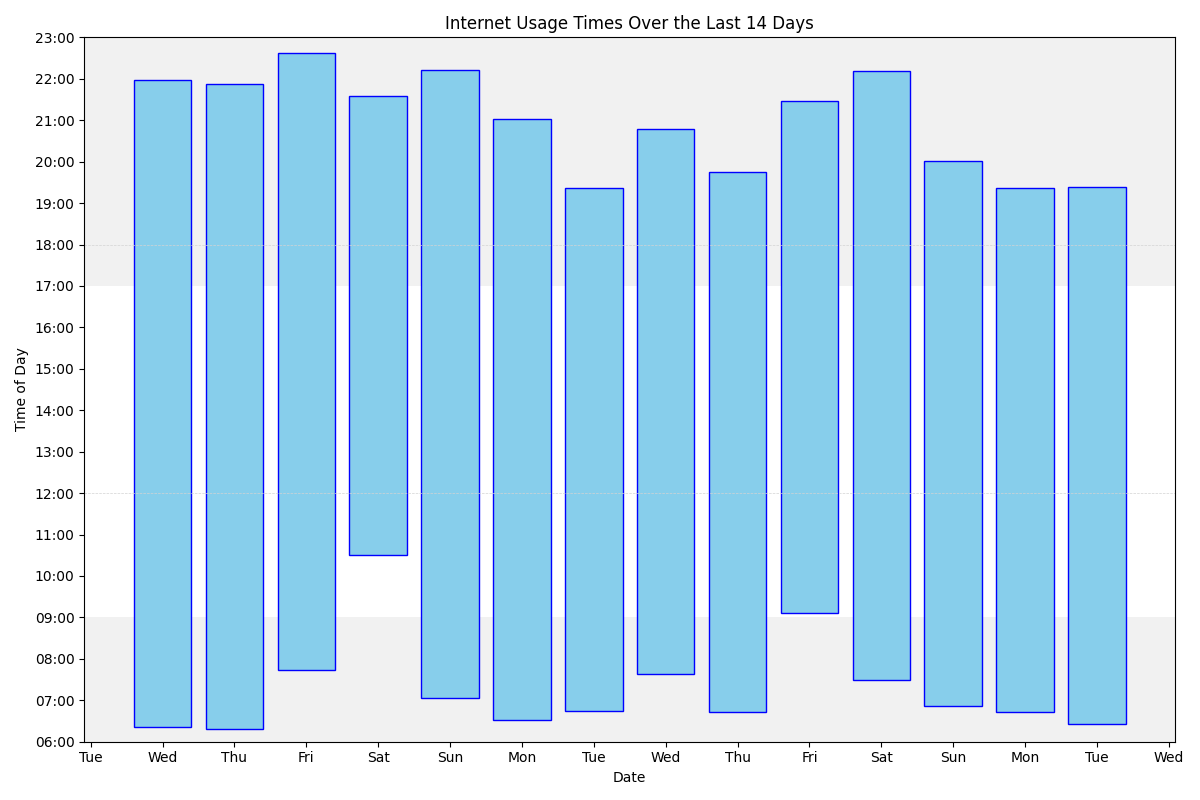
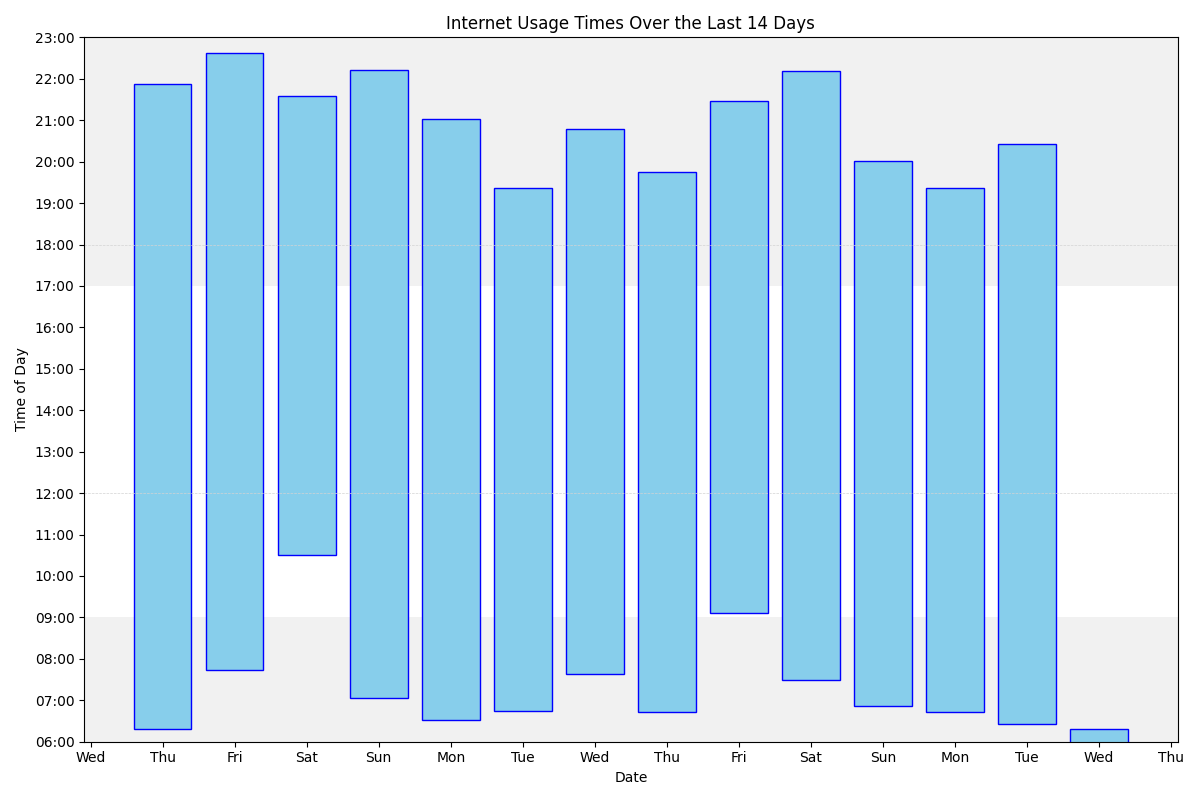
Update

diff --git a/index.md b/index.md
@@ -68,54 +68,156 @@ ul>li::after {
 <h3> Most common sites</h3>
 With number of accesses/minutes in parentheses
 
-<ol><li>www.google.com (2570)</li>
-<li>outlook.office.com (1929)</li>
-<li>mail.google.com (1803)</li>
+<ol><li>www.google.com (2573)</li>
+<li>outlook.office.com (1933)</li>
+<li>mail.google.com (1820)</li>
 <li>docs.google.com (1569)</li>
 <li>bsky.app (1273)</li>
-<li>outlook.office365.com (1180)</li>
-<li>www.reddit.com (836)</li>
-<li>www.facebook.com (759)</li>
-<li>duckduckgo.com (600)</li>
-<li>www.amazon.co.uk (596)</li>
-<li>chatgpt.com (506)</li>
+<li>outlook.office365.com (1181)</li>
+<li>www.reddit.com (844)</li>
+<li>www.facebook.com (760)</li>
+<li>duckduckgo.com (601)</li>
+<li>www.amazon.co.uk (597)</li>
+<li>chatgpt.com (510)</li>
 <li>rhul-my.sharepoint.com (404)</li>
-<li>calendar.google.com (377)</li>
-<li>www.linkedin.com (367)</li>
+<li>calendar.google.com (379)</li>
+<li>www.linkedin.com (368)</li>
 <li>github.com (356)</li>
 <li>moodle.royalholloway.ac.uk (345)</li>
 <li>tvtropes.org (290)</li>
 <li>fritz.box (276)</li>
-<li>www.theguardian.com (235)</li>
-<li>login.microsoftonline.com (234)</li>
+<li>www.theguardian.com (240)</li>
+<li>login.microsoftonline.com (232)</li>
+<li>gmail.com (213)</li>
+<li>feedly.com (211)</li>
 <li>qbo.intuit.com (211)</li>
-<li>feedly.com (210)</li>
-<li>gmail.com (210)</li>
+<li>web.whatsapp.com (201)</li>
+<li>drive.google.com (200)</li>
 <li>www.coursera.org (199)</li>
-<li>drive.google.com (198)</li>
-<li>web.whatsapp.com (197)</li>
-<li>chat.openai.com (174)</li>
+<li>chat.openai.com (176)</li>
 <li>rhul.sharepoint.com (165)</li>
-<li><a href="https://joereddington.com/todo.txt/">Joe’s Todo List</a> (141)</li>
-<li>forms.office.com (136)</li>
+<li><a href="https://joereddington.com/todo.txt/">Joe’s Todo List</a> (142)</li>
+<li>forms.office.com (135)</li>
 
 
 </ol><H2> Sites and times</H2>
 
 <ul></ul>
 
+<H3>Wednesday, 19/03/25</H3>
+
+<br>
+
+<ul><li> 06:34 calendar.google.com</li>
+<li> 06:18 www.theguardian.com</li>
+<li class='same'> 06:17 www.theguardian.com</li>
+<li> 06:12 mail.google.com</li>
+<li> 06:12 drive.google.com</li>
+<li> 06:12 www.google.com</li>
+<li> 06:12 mail.google.com</li>
+<li> 06:12 gmail.com</li>
+<li> 06:11 askubuntu.com</li>
+<li> 06:11 www.google.com</li>
+<li> 06:11 web.whatsapp.com</li>
+<li> 06:10 adblockplus.org</li>
+<li> 06:10 web.whatsapp.com</li>
+</ul>
+
+<br>
+
+<ul><li> 04:31 mail.google.com</li>
+<li> 04:31 challengeworks.org</li>
+<li class='same'> 04:30 challengeworks.org</li>
+<li> 04:30 www.google.com</li>
+<li> 04:30 mail.google.com</li>
+<li> 04:27 <a href="https://joereddington.com/2019/05/08/Everything-I%27ve-watched-on-Netflix-and-Amazon-Prime.html">Everything I’ve watched on Netflix and Amazon Prime | Joe Reddington</a></li>
+<li> 04:27 www.google.com</li>
+<li> 04:27 mail.google.com</li>
+<li class='same'> 04:26 mail.google.com</li>
+<li class='same'> 04:25 mail.google.com</li>
+<li> 04:24 www.jobs.ac.uk</li>
+<li> 04:24 www.google.com</li>
+<li> 04:24 mail.google.com</li>
+<li> 04:17 one.google.com</li>
+<li class='same'> 04:16 one.google.com</li>
+<li> 04:16 mail.google.com</li>
+<li class='same'> 04:15 mail.google.com</li>
+<li class='same'> 04:14 mail.google.com</li>
+<li> 04:13 one.google.com</li>
+<li class='same'> 04:11 one.google.com</li>
+<li> 04:10 web.whatsapp.com</li>
+<li> 04:09 drive.google.com</li>
+<li> 04:05 www.reddit.com</li>
+<li> 04:05 reddit.com</li>
+<li> 04:04 www.reddit.com</li>
+<li> 03:37 chatgpt.com</li>
+<li> 03:31 <a href="https://joereddington.com/todo.txt/">Joe’s Todo List</a></li>
+<li> 03:17 chatgpt.com</li>
+<li class='same'> 03:15 chatgpt.com</li>
+<li class='same'> 03:14 chatgpt.com</li>
+<li> 03:14 chat.openai.com</li>
+<li> 03:14 claude.ai</li>
+<li> 03:13 chatgpt.com</li>
+<li> 03:13 chat.openai.com</li>
+<li> 03:12 feedly.com</li>
+<li> 03:11 www.theguardian.com</li>
+<li class='same'> 03:10 www.theguardian.com</li>
+<li> 03:10 www.facebook.com</li>
+<li> 03:06 <a href="https://joereddington.com/2025/01/07/factory-reset.html">Factory Reset | Joe Reddington</a></li>
+<li> 03:06 mail.google.com</li>
+<li> 03:04 www.google.com</li>
+<li> 03:04 notifications.google.com</li>
+<li> 03:04 mail.google.com</li>
+<li class='same'> 03:03 mail.google.com</li>
+<li> 03:03 gmail.com</li>
+</ul>
+
+<br>
+
+<ul><li> 00:20 calendar.google.com</li>
+</ul>
+
 <H3>Tuesday, 18/03/25</H3>
 
 <br>
 
-<ul><li> 19:22 www.reddit.com</li>
+<ul></ul>
+
+<br>
+
+<ul><li> 20:25 www.theguardian.com</li>
+</ul>
+
+<br>
+
+<ul><li> 19:46 web.whatsapp.com</li>
+<li> 19:46 outlook.office.com</li>
+<li> 19:46 mail.google.com</li>
+<li class='same'> 19:45 mail.google.com</li>
+<li> 19:45 gmail.com</li>
+<li> 19:31 outlook.office.com</li>
+<li class='same'> 19:30 outlook.office.com</li>
+<li> 19:30 outlook.office365.com</li>
+<li> 19:30 outlook.office.com</li>
+<li> 19:30 www.linkedin.com</li>
+<li> 19:30 www.reddit.com</li>
+<li class='same'> 19:28 www.reddit.com</li>
+<li> 19:27 www.amazon.co.uk</li>
+<li> 19:27 www.ebay.co.uk</li>
+<li> 19:27 duckduckgo.com</li>
+<li> 19:26 www.reddit.com</li>
+<li class='same'> 19:25 www.reddit.com</li>
+<li class='same'> 19:24 www.reddit.com</li>
+<li class='same'> 19:23 www.reddit.com</li>
+<li class='same'> 19:22 www.reddit.com</li>
 <li> 19:22 docs.google.com</li>
 <li class='same'> 19:21 docs.google.com</li>
 </ul>
 
 <br>
 
-<ul><li> 18:46 en.m.wiktionary.org</li>
+<ul><li> 18:50 fast.com</li>
+<li> 18:46 en.m.wiktionary.org</li>
 </ul>
 
 <br>
@@ -18976,7 +19078,6 @@ With number of accesses/minutes in parentheses
 <li class='same'> 13:33 mail.google.com</li>
 <li class='same'> 13:32 mail.google.com</li>
 <li> 13:29 www.google.com</li>
-<li class='same'> 13:28 www.google.com</li>
 <li class='same'> 13:27 www.google.com</li>
 <li class='same'> 13:26 www.google.com</li>
 <li> 13:26 mail.google.com</li>
@@ -19016,13 +19117,10 @@ With number of accesses/minutes in parentheses
 <li> 11:51 dashboards.rhul.ac.uk</li>
 <li class='same'> 11:50 dashboards.rhul.ac.uk</li>
 <li> 11:49 outlook.office365.com</li>
-<li> 11:43 login.microsoftonline.com</li>
-<li> 11:43 forms.office.com</li>
 <li> 11:43 rhul-my.sharepoint.com</li>
 <li> 11:28 outlook.office365.com</li>
 <li> 11:26 generalssb-prod.ec.royalholloway.ac.uk</li>
 <li> 11:26 eis-prod.ec.royalholloway.ac.uk</li>
-<li> 11:26 login.microsoftonline.com</li>
 <li> 11:26 generalssb-prod.ec.royalholloway.ac.uk</li>
 <li> 11:26 experience.elluciancloud.ie</li>
 <li> 11:26 login.microsoftonline.com</li>
@@ -19043,7 +19141,6 @@ With number of accesses/minutes in parentheses
 <li> 11:07 www.access.service.gov.uk</li>
 <li> 11:07 www.tax.service.gov.uk</li>
 <li> 11:06 www.access.service.gov.uk</li>
-<li> 10:59 www.google.com</li>
 <li> 10:57 kdpreports.amazon.com</li>
 <li> 10:55 docs.google.com</li>
 <li> 10:54 www.reddit.com</li>
@@ -19134,8 +19231,6 @@ With number of accesses/minutes in parentheses
 <li> 09:33 www.tax.service.gov.uk</li>
 <li> 09:32 chatgpt.com</li>
 <li class='same'> 09:31 chatgpt.com</li>
-<li> 09:31 accounts.google.com</li>
-<li> 09:31 chatgpt.com</li>
 <li> 09:28 docs.google.com</li>
 <li class='same'> 09:26 docs.google.com</li>
 <li> 09:25 drive.google.com</li>
@@ -19182,7 +19277,6 @@ With number of accesses/minutes in parentheses
 <li> 07:20 studio.youtube.com</li>
 <li> 07:20 docs.google.com</li>
 <li> 07:18 www.crainsnewyork.com</li>
-<li> 07:18 www.google.com</li>
 <li> 07:18 news.google.com</li>
 <li> 07:18 docs.google.com</li>
 <li> 07:17 script.google.com</li>
@@ -36241,6 +36335,11 @@ With number of accesses/minutes in parentheses
 <br>
 
 <ul></ul>
+
+<br>
+
+<ul><li> 19:19 mail.google.com</li>
+</ul>
 
 <br>
 
